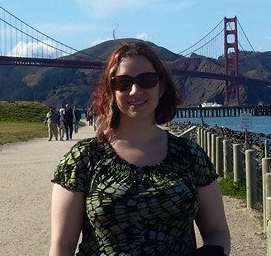
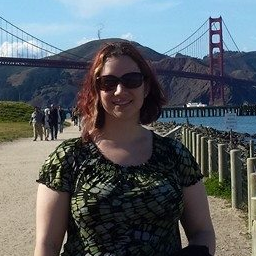
turns out that one photo wasn't perfectly square

diff --git a/_site/about.html b/_site/about.html
@@ -76,7 +76,7 @@
                 <div class="imagesRow">
                     <div class="imageThumbnail">
                         <div class="thumbnail">
-                            <img class="headshot" src="setup_files/images/headshots/erica_braunschweig_square_2.png" alt="Erica Braunschweig Headshot">
+                            <img class="headshot" src="setup_files/images/headshots/erica_braunschweig_square.png" alt="Erica Braunschweig Headshot">
                             <div class="caption">
                                 <h3>Webmaster</h3>
                                 <h4>Erica Braunschweig</h4>
